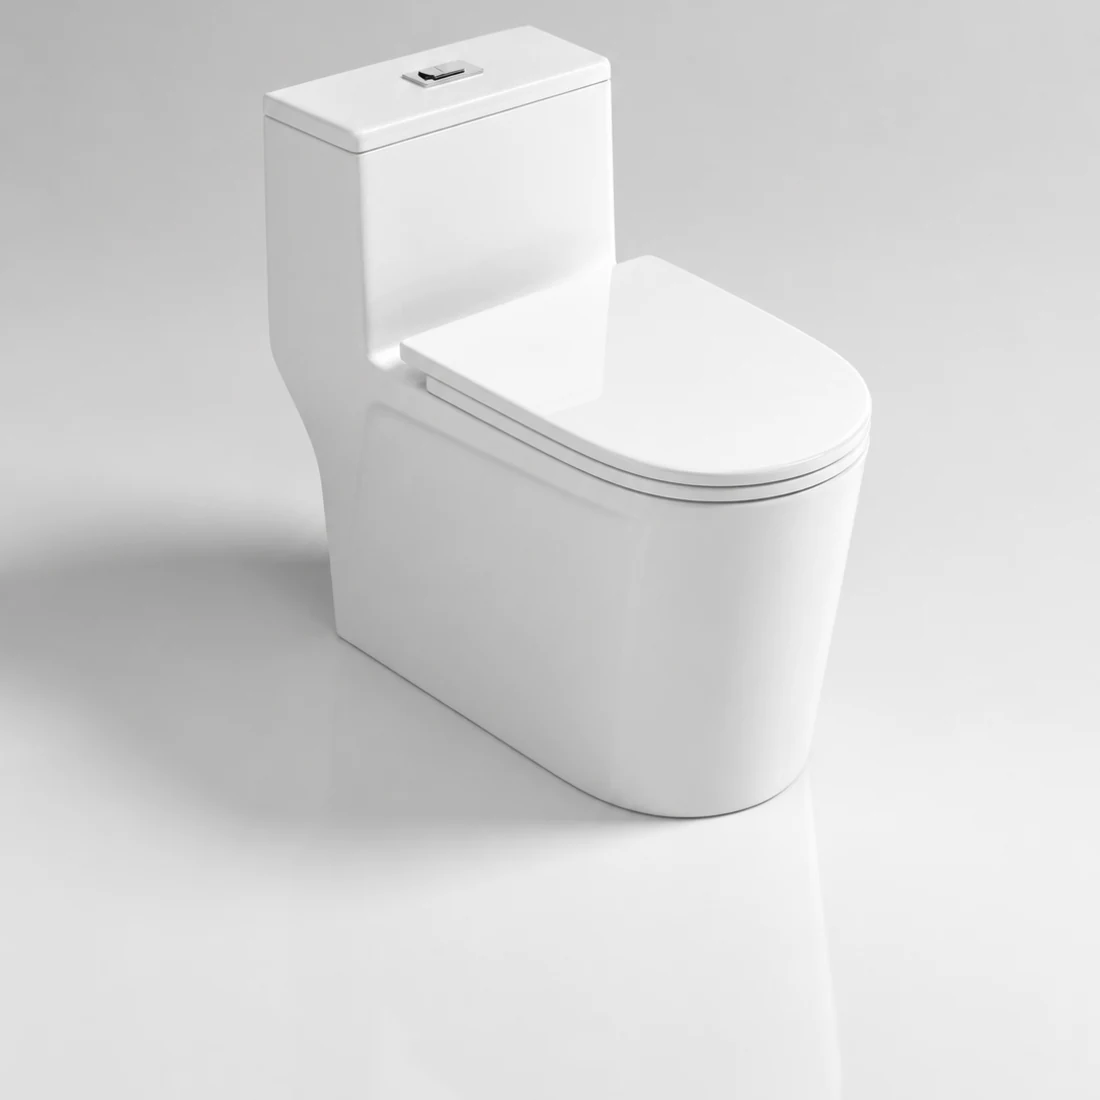
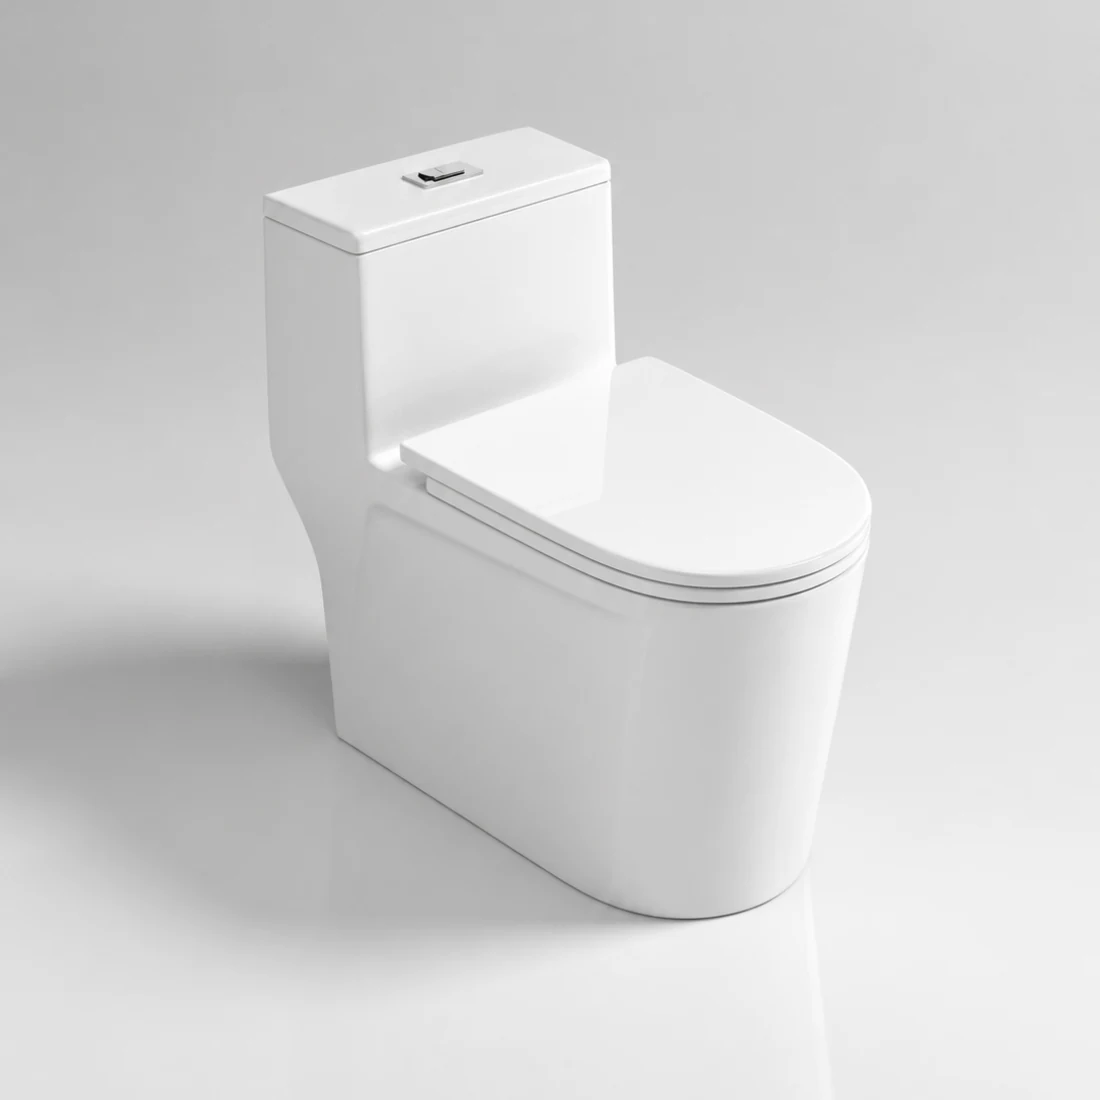
T201 card: nudge toilet down (crop y=180)

diff --git a/products/index.html b/products/index.html
@@ -117,7 +117,7 @@ const CATS = {
     items:[{code:'PB101',name:'Classic Pillar',dims:'560 × 460 × 850',sub:'floor'},{code:'PB108',name:'Slim Column',dims:'520 × 440 × 840',sub:'floor'},{code:'PB115',name:'Atelier',dims:'600 × 480 × 850',sub:'floor'},{code:'PB122',name:'Forma',dims:'550 × 450 × 845',sub:'floor'},{code:'PB130',name:'Lirio',dims:'580 × 460 × 850',sub:'floor'},{code:'PB144',name:'Toro',dims:'610 × 470 × 855',sub:'floor'},{code:'PB158',name:'Mira Column',dims:'590 × 460 × 850',sub:'floor'},{code:'WB101',name:'Float Wall',dims:'500 × 420',sub:'wall'},{code:'WB103',name:'Linea Wall',dims:'550 × 440',sub:'wall'},{code:'WB105',name:'Plate Wall',dims:'600 × 460',sub:'wall'},{code:'WB107',name:'Edge Wall',dims:'480 × 380',sub:'wall'},{code:'WB108',name:'Crest Wall',dims:'520 × 400',sub:'wall'}]},
   standard: { title:'Toilet.', sub:['15 models · One-piece','Floor-mount · Dual flush','Antibacterial glaze · Soft-close seat'], icon:'toilet',
     tabs:[{id:'all',label:'All',count:15},{id:'open',label:'Open tank',count:12},{id:'concealed',label:'Concealed cistern',count:3}],
-    items:[{code:"T201",name:"T201 · Cascade siphon · curved one-piece",dims:"690 × 375 × 660 mm",sub:"open",img:'/assets/products/' + "T201" + '/card.webp?v=4'},{code:"T202",name:"T202 · Cascade vortex · narrow footprint",dims:"680 × 360 × 700 mm",sub:"open",img:'/assets/products/' + "T202" + '/card.webp'},{code:"T203",name:"T203 · Rimless · fully glazed bowl",dims:"660 × 370 × 700 mm",sub:"open",img:'/assets/products/' + "T203" + '/card.webp'},{code:"T204",name:"T204 · Concealed cistern · 650 mm low silhouette",dims:"700 × 365 × 650 mm",sub:"concealed",img:'/assets/products/' + "T204" + '/card.webp'},{code:"T205",name:"T205 · Concealed cistern · soft-shoulder body",dims:"700 × 365 × 650 mm",sub:"concealed",img:'/assets/products/' + "T205" + '/card.webp'},{code:"T206",name:"T206 · Concealed cistern · squared shoulder",dims:"680 × 370 × 700 mm",sub:"concealed",img:'/assets/products/' + "T206" + '/card.webp'},{code:"T207",name:"T207 · Sculpted body · 430 mm seat width",dims:"680 × 430 × 680 mm",sub:"open",img:'/assets/products/' + "T207" + '/card.webp'},{code:"T208",name:"T208 · Soft-square one-piece",dims:"700 × 370 × 720 mm",sub:"open",img:'/assets/products/' + "T208" + '/card.webp'},{code:"T209",name:"T209 · Tall tank · super siphon",dims:"680 × 365 × 750 mm",sub:"open",img:'/assets/products/' + "T209" + '/card.webp'},{code:"T210",name:"T210 · Wide stance · 380 mm seat height",dims:"700 × 395 × 710 mm",sub:"open",img:'/assets/products/' + "T210" + '/card.webp'},{code:"T211",name:"T211 · Tall tank · soft cylinder",dims:"680 × 365 × 750 mm",sub:"open",img:'/assets/products/' + "T211" + '/card.webp'},{code:"T212",name:"T212 · Tall tank · squared shoulder",dims:"680 × 365 × 750 mm",sub:"open",img:'/assets/products/' + "T212" + '/card.webp'},{code:"T213",name:"T213 · Tall tank · slim profile",dims:"680 × 365 × 750 mm",sub:"open",img:'/assets/products/' + "T213" + '/card.webp'},{code:"T214",name:"T214 · Tall tank · architectural",dims:"680 × 365 × 750 mm",sub:"open",img:'/assets/products/' + "T214" + '/card.webp'},{code:"T215",name:"T215 · Flagship 760 mm tank",dims:"680 × 365 × 760 mm",sub:"open",img:'/assets/products/' + "T215" + '/card.webp'}]},
+    items:[{code:"T201",name:"T201 · Cascade siphon · curved one-piece",dims:"690 × 375 × 660 mm",sub:"open",img:'/assets/products/' + "T201" + '/card.webp?v=5'},{code:"T202",name:"T202 · Cascade vortex · narrow footprint",dims:"680 × 360 × 700 mm",sub:"open",img:'/assets/products/' + "T202" + '/card.webp'},{code:"T203",name:"T203 · Rimless · fully glazed bowl",dims:"660 × 370 × 700 mm",sub:"open",img:'/assets/products/' + "T203" + '/card.webp'},{code:"T204",name:"T204 · Concealed cistern · 650 mm low silhouette",dims:"700 × 365 × 650 mm",sub:"concealed",img:'/assets/products/' + "T204" + '/card.webp'},{code:"T205",name:"T205 · Concealed cistern · soft-shoulder body",dims:"700 × 365 × 650 mm",sub:"concealed",img:'/assets/products/' + "T205" + '/card.webp'},{code:"T206",name:"T206 · Concealed cistern · squared shoulder",dims:"680 × 370 × 700 mm",sub:"concealed",img:'/assets/products/' + "T206" + '/card.webp'},{code:"T207",name:"T207 · Sculpted body · 430 mm seat width",dims:"680 × 430 × 680 mm",sub:"open",img:'/assets/products/' + "T207" + '/card.webp'},{code:"T208",name:"T208 · Soft-square one-piece",dims:"700 × 370 × 720 mm",sub:"open",img:'/assets/products/' + "T208" + '/card.webp'},{code:"T209",name:"T209 · Tall tank · super siphon",dims:"680 × 365 × 750 mm",sub:"open",img:'/assets/products/' + "T209" + '/card.webp'},{code:"T210",name:"T210 · Wide stance · 380 mm seat height",dims:"700 × 395 × 710 mm",sub:"open",img:'/assets/products/' + "T210" + '/card.webp'},{code:"T211",name:"T211 · Tall tank · soft cylinder",dims:"680 × 365 × 750 mm",sub:"open",img:'/assets/products/' + "T211" + '/card.webp'},{code:"T212",name:"T212 · Tall tank · squared shoulder",dims:"680 × 365 × 750 mm",sub:"open",img:'/assets/products/' + "T212" + '/card.webp'},{code:"T213",name:"T213 · Tall tank · slim profile",dims:"680 × 365 × 750 mm",sub:"open",img:'/assets/products/' + "T213" + '/card.webp'},{code:"T214",name:"T214 · Tall tank · architectural",dims:"680 × 365 × 750 mm",sub:"open",img:'/assets/products/' + "T214" + '/card.webp'},{code:"T215",name:"T215 · Flagship 760 mm tank",dims:"680 × 365 × 760 mm",sub:"open",img:'/assets/products/' + "T215" + '/card.webp'}]},
   smart: { title:'Smart Toilet.', sub:['New series','Heated seat · Auto flush'], icon:'smarttoilet',
     tabs:[{id:'all',label:'All',count:6},{id:'floor',label:'Floor',count:3},{id:'wall',label:'Wall-Hung',count:3}],
     items:[{code:'ST101',name:'Lumen Smart',dims:'720 × 400 × 480',sub:'floor'},{code:'ST108',name:'Volt Smart',dims:'700 × 390 × 470',sub:'floor'},{code:'ST115',name:'Aria Smart',dims:'710 × 395 × 475',sub:'floor'},{code:'SW201',name:'Float Smart',dims:'540 × 360 × 320',sub:'wall'},{code:'SW208',name:'Edge Smart',dims:'560 × 370 × 330',sub:'wall'},{code:'SW214',name:'Plate Smart',dims:'550 × 365 × 325',sub:'wall'}]},

diff --git a/zh/products/index.html b/zh/products/index.html
@@ -118,7 +118,7 @@ const CATS = {
     items:[{code:'PB101',name:'Classic Pillar',dims:'560 × 460 × 850',sub:'floor'},{code:'PB108',name:'Slim Column',dims:'520 × 440 × 840',sub:'floor'},{code:'PB115',name:'Atelier',dims:'600 × 480 × 850',sub:'floor'},{code:'PB122',name:'Forma',dims:'550 × 450 × 845',sub:'floor'},{code:'PB130',name:'Lirio',dims:'580 × 460 × 850',sub:'floor'},{code:'PB144',name:'Toro',dims:'610 × 470 × 855',sub:'floor'},{code:'PB158',name:'Mira Column',dims:'590 × 460 × 850',sub:'floor'},{code:'WB101',name:'Float Wall',dims:'500 × 420',sub:'wall'},{code:'WB103',name:'Linea Wall',dims:'550 × 440',sub:'wall'},{code:'WB105',name:'Plate Wall',dims:'600 × 460',sub:'wall'},{code:'WB107',name:'Edge Wall',dims:'480 × 380',sub:'wall'},{code:'WB108',name:'Crest Wall',dims:'520 × 400',sub:'wall'}]},
   standard: { title:'馬桶。', sub:['15 款式 · 連體','落地式 · 雙鈕沖水','抗菌釉面 · 緩降座圈'], icon:'toilet',
     tabs:[{id:'all',label:'全部',count:15},{id:'open',label:'外置水箱',count:12},{id:'concealed',label:'隱藏水箱',count:3}],
-    items:[{code:"T201",name:"T201 · 瀑布虹吸 · 弧線一體",dims:"690 × 375 × 660 mm",sub:"open",img:'/assets/products/' + "T201" + '/card.webp?v=4'},{code:"T202",name:"T202 · 瀑布超漩 · 窄底盤",dims:"680 × 360 × 700 mm",sub:"open",img:'/assets/products/' + "T202" + '/card.webp'},{code:"T203",name:"T203 · 無唇 · 全釉內壁",dims:"660 × 370 × 700 mm",sub:"open",img:'/assets/products/' + "T203" + '/card.webp'},{code:"T204",name:"T204 · 隱藏水箱 · 650mm 低姿態",dims:"700 × 365 × 650 mm",sub:"concealed",img:'/assets/products/' + "T204" + '/card.webp'},{code:"T205",name:"T205 · 隱藏水箱 · 軟肩身型",dims:"700 × 365 × 650 mm",sub:"concealed",img:'/assets/products/' + "T205" + '/card.webp'},{code:"T206",name:"T206 · 隱藏水箱 · 方肩",dims:"680 × 370 × 700 mm",sub:"concealed",img:'/assets/products/' + "T206" + '/card.webp'},{code:"T207",name:"T207 · 雕塑身型 · 430mm 寬座圈",dims:"680 × 430 × 680 mm",sub:"open",img:'/assets/products/' + "T207" + '/card.webp'},{code:"T208",name:"T208 · 軟方一體",dims:"700 × 370 × 720 mm",sub:"open",img:'/assets/products/' + "T208" + '/card.webp'},{code:"T209",name:"T209 · 高水箱 · 超漩虹吸",dims:"680 × 365 × 750 mm",sub:"open",img:'/assets/products/' + "T209" + '/card.webp'},{code:"T210",name:"T210 · 寬底盤 · 380mm 坐高",dims:"700 × 395 × 710 mm",sub:"open",img:'/assets/products/' + "T210" + '/card.webp'},{code:"T211",name:"T211 · 高水箱 · 軟柱身",dims:"680 × 365 × 750 mm",sub:"open",img:'/assets/products/' + "T211" + '/card.webp'},{code:"T212",name:"T212 · 高水箱 · 方肩",dims:"680 × 365 × 750 mm",sub:"open",img:'/assets/products/' + "T212" + '/card.webp'},{code:"T213",name:"T213 · 高水箱 · 修長",dims:"680 × 365 × 750 mm",sub:"open",img:'/assets/products/' + "T213" + '/card.webp'},{code:"T214",name:"T214 · 高水箱 · 建築感",dims:"680 × 365 × 750 mm",sub:"open",img:'/assets/products/' + "T214" + '/card.webp'},{code:"T215",name:"T215 · 旗艦 760mm 水箱",dims:"680 × 365 × 760 mm",sub:"open",img:'/assets/products/' + "T215" + '/card.webp'}]},
+    items:[{code:"T201",name:"T201 · 瀑布虹吸 · 弧線一體",dims:"690 × 375 × 660 mm",sub:"open",img:'/assets/products/' + "T201" + '/card.webp?v=5'},{code:"T202",name:"T202 · 瀑布超漩 · 窄底盤",dims:"680 × 360 × 700 mm",sub:"open",img:'/assets/products/' + "T202" + '/card.webp'},{code:"T203",name:"T203 · 無唇 · 全釉內壁",dims:"660 × 370 × 700 mm",sub:"open",img:'/assets/products/' + "T203" + '/card.webp'},{code:"T204",name:"T204 · 隱藏水箱 · 650mm 低姿態",dims:"700 × 365 × 650 mm",sub:"concealed",img:'/assets/products/' + "T204" + '/card.webp'},{code:"T205",name:"T205 · 隱藏水箱 · 軟肩身型",dims:"700 × 365 × 650 mm",sub:"concealed",img:'/assets/products/' + "T205" + '/card.webp'},{code:"T206",name:"T206 · 隱藏水箱 · 方肩",dims:"680 × 370 × 700 mm",sub:"concealed",img:'/assets/products/' + "T206" + '/card.webp'},{code:"T207",name:"T207 · 雕塑身型 · 430mm 寬座圈",dims:"680 × 430 × 680 mm",sub:"open",img:'/assets/products/' + "T207" + '/card.webp'},{code:"T208",name:"T208 · 軟方一體",dims:"700 × 370 × 720 mm",sub:"open",img:'/assets/products/' + "T208" + '/card.webp'},{code:"T209",name:"T209 · 高水箱 · 超漩虹吸",dims:"680 × 365 × 750 mm",sub:"open",img:'/assets/products/' + "T209" + '/card.webp'},{code:"T210",name:"T210 · 寬底盤 · 380mm 坐高",dims:"700 × 395 × 710 mm",sub:"open",img:'/assets/products/' + "T210" + '/card.webp'},{code:"T211",name:"T211 · 高水箱 · 軟柱身",dims:"680 × 365 × 750 mm",sub:"open",img:'/assets/products/' + "T211" + '/card.webp'},{code:"T212",name:"T212 · 高水箱 · 方肩",dims:"680 × 365 × 750 mm",sub:"open",img:'/assets/products/' + "T212" + '/card.webp'},{code:"T213",name:"T213 · 高水箱 · 修長",dims:"680 × 365 × 750 mm",sub:"open",img:'/assets/products/' + "T213" + '/card.webp'},{code:"T214",name:"T214 · 高水箱 · 建築感",dims:"680 × 365 × 750 mm",sub:"open",img:'/assets/products/' + "T214" + '/card.webp'},{code:"T215",name:"T215 · 旗艦 760mm 水箱",dims:"680 × 365 × 760 mm",sub:"open",img:'/assets/products/' + "T215" + '/card.webp'}]},
   smart: { title:'智能馬桶。', sub:['新系列','加熱坐圈 · 自動沖水'], icon:'smarttoilet',
     tabs:[{id:'all',label:'全部',count:6},{id:'floor',label:'落地',count:3},{id:'wall',label:'掛牆',count:3}],
     items:[{code:'ST101',name:'Lumen Smart',dims:'720 × 400 × 480',sub:'floor'},{code:'ST108',name:'Volt Smart',dims:'700 × 390 × 470',sub:'floor'},{code:'ST115',name:'Aria Smart',dims:'710 × 395 × 475',sub:'floor'},{code:'SW201',name:'Float Smart',dims:'540 × 360 × 320',sub:'wall'},{code:'SW208',name:'Edge Smart',dims:'560 × 370 × 330',sub:'wall'},{code:'SW214',name:'Plate Smart',dims:'550 × 365 × 325',sub:'wall'}]},